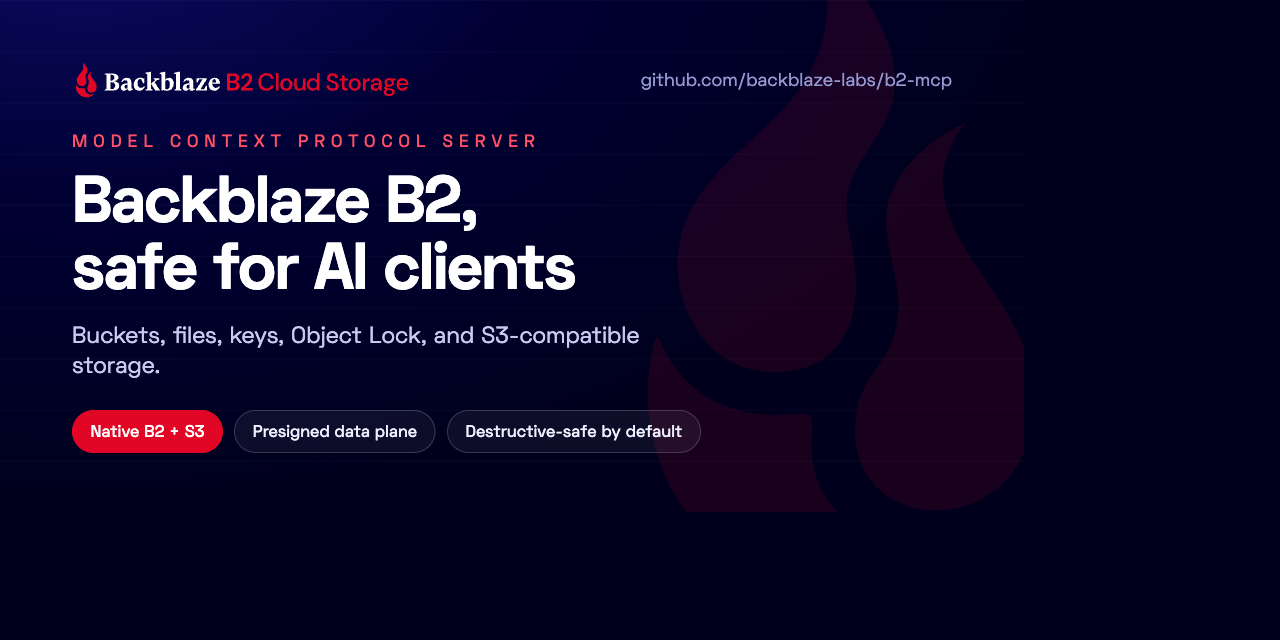
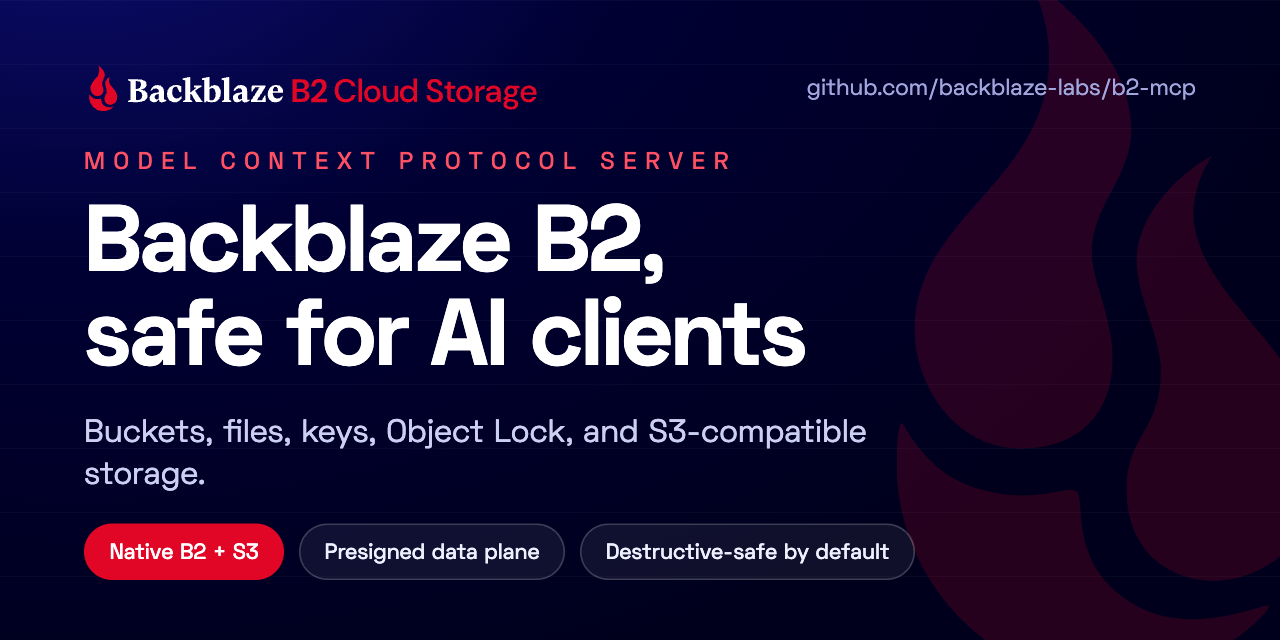
docs: add discovery badges, hero image, rebalanced social preview

diff --git a/tests/contract/readme-drift.contract.test.ts b/tests/contract/readme-drift.contract.test.ts
@@ -90,8 +90,15 @@ describe("README project badges", () => {
     expect(readme).toContain(`runtime_dependencies-${dependencyCount}-blue`);
   });
 
-  it("defers discovery badges until stable listing URLs exist", () => {
-    expect(readme).toContain("Directory badges for MCP Registry, Smithery, and Glama are deferred");
+  it("links discovery badges to deterministic per-server listing URLs", () => {
+    // Directory badges use the locked server name / repo path, so they activate
+    // on release without a second version bump. See docs and the badge block.
+    expect(readme).toContain(
+      "registry.modelcontextprotocol.io/v0/servers?search=io.github.backblaze-labs/b2-mcp",
+    );
+    expect(readme).toContain("glama.ai/mcp/servers/@backblaze-labs/b2-mcp");
+    expect(readme).toContain("smithery.ai/server/@backblaze-labs/b2-mcp");
+    // Never link badges to fragile search-result URLs.
     expect(readme).not.toContain("registry.modelcontextprotocol.io/?search=");
     expect(readme).not.toContain("smithery.ai/servers?q=");
     expect(readme).not.toContain("glama.ai/mcp/servers?query=");

diff --git a/README.md b/README.md
@@ -1,5 +1,9 @@
 # Backblaze B2 MCP Server
 
+<p align="center">
+  <img src=".github/social-preview.png" alt="Backblaze B2 MCP Server — safe Model Context Protocol access to Backblaze B2 buckets, files, keys, Object Lock, and S3-compatible storage" width="820">
+</p>
+
 [![CI](https://github.com/backblaze-labs/b2-mcp/actions/workflows/test.yml/badge.svg)](https://github.com/backblaze-labs/b2-mcp/actions/workflows/test.yml)
 [![CodeQL](https://img.shields.io/badge/CodeQL-enabled-brightgreen?logo=github)](https://github.com/backblaze-labs/b2-mcp/security/code-scanning)
 [![npm](https://img.shields.io/npm/v/@backblaze-labs/b2-mcp?color=cb3837)](https://www.npmjs.com/package/@backblaze-labs/b2-mcp)
@@ -7,7 +11,12 @@
 [![TypeScript](https://img.shields.io/badge/TypeScript-6.x-3178c6?logo=typescript&logoColor=white)](https://www.typescriptlang.org/)
 [![Node.js](https://img.shields.io/badge/Node.js-22.3%2B%20%7C%2024%20%7C%2026-339933?logo=nodedotjs&logoColor=white)](https://nodejs.org/)
 [![MCP](https://img.shields.io/badge/MCP-2026--07--28-5b5fc7)](https://modelcontextprotocol.io/specification/2026-07-28)
-<!-- Directory badges for MCP Registry, Smithery, and Glama are deferred until stable per-server listing URLs exist. Do not link badges to search-result URLs. -->
+<!-- Directory badges point at deterministic per-server URLs derived from the locked
+     name (io.github.backblaze-labs/b2-mcp) and repo path, so they activate automatically
+     once the package is published to the MCP Registry and ingested by Glama/Smithery. -->
+[![MCP Registry](https://img.shields.io/badge/dynamic/json?url=https%3A%2F%2Fregistry.modelcontextprotocol.io%2Fv0%2Fservers%3Fsearch%3Dio.github.backblaze-labs%2Fb2-mcp&query=%24.servers%5B0%5D.version&prefix=v&label=MCP%20Registry&color=5b5fc7&logo=modelcontextprotocol&logoColor=white)](https://registry.modelcontextprotocol.io/v0/servers?search=io.github.backblaze-labs/b2-mcp)
+[![Glama](https://glama.ai/mcp/servers/@backblaze-labs/b2-mcp/badge)](https://glama.ai/mcp/servers/@backblaze-labs/b2-mcp)
[1 lines of base64/hex data omitted]
 [![Coverage floors](https://img.shields.io/badge/coverage-S%2094.3%20%7C%20B%2088%20%7C%20F%2097.2%20%7C%20L%2096.6-brightgreen)](docs/TESTING.md)
 [![Runtime dependencies](https://img.shields.io/badge/runtime_dependencies-9-blue)](package-budget.json)
 
